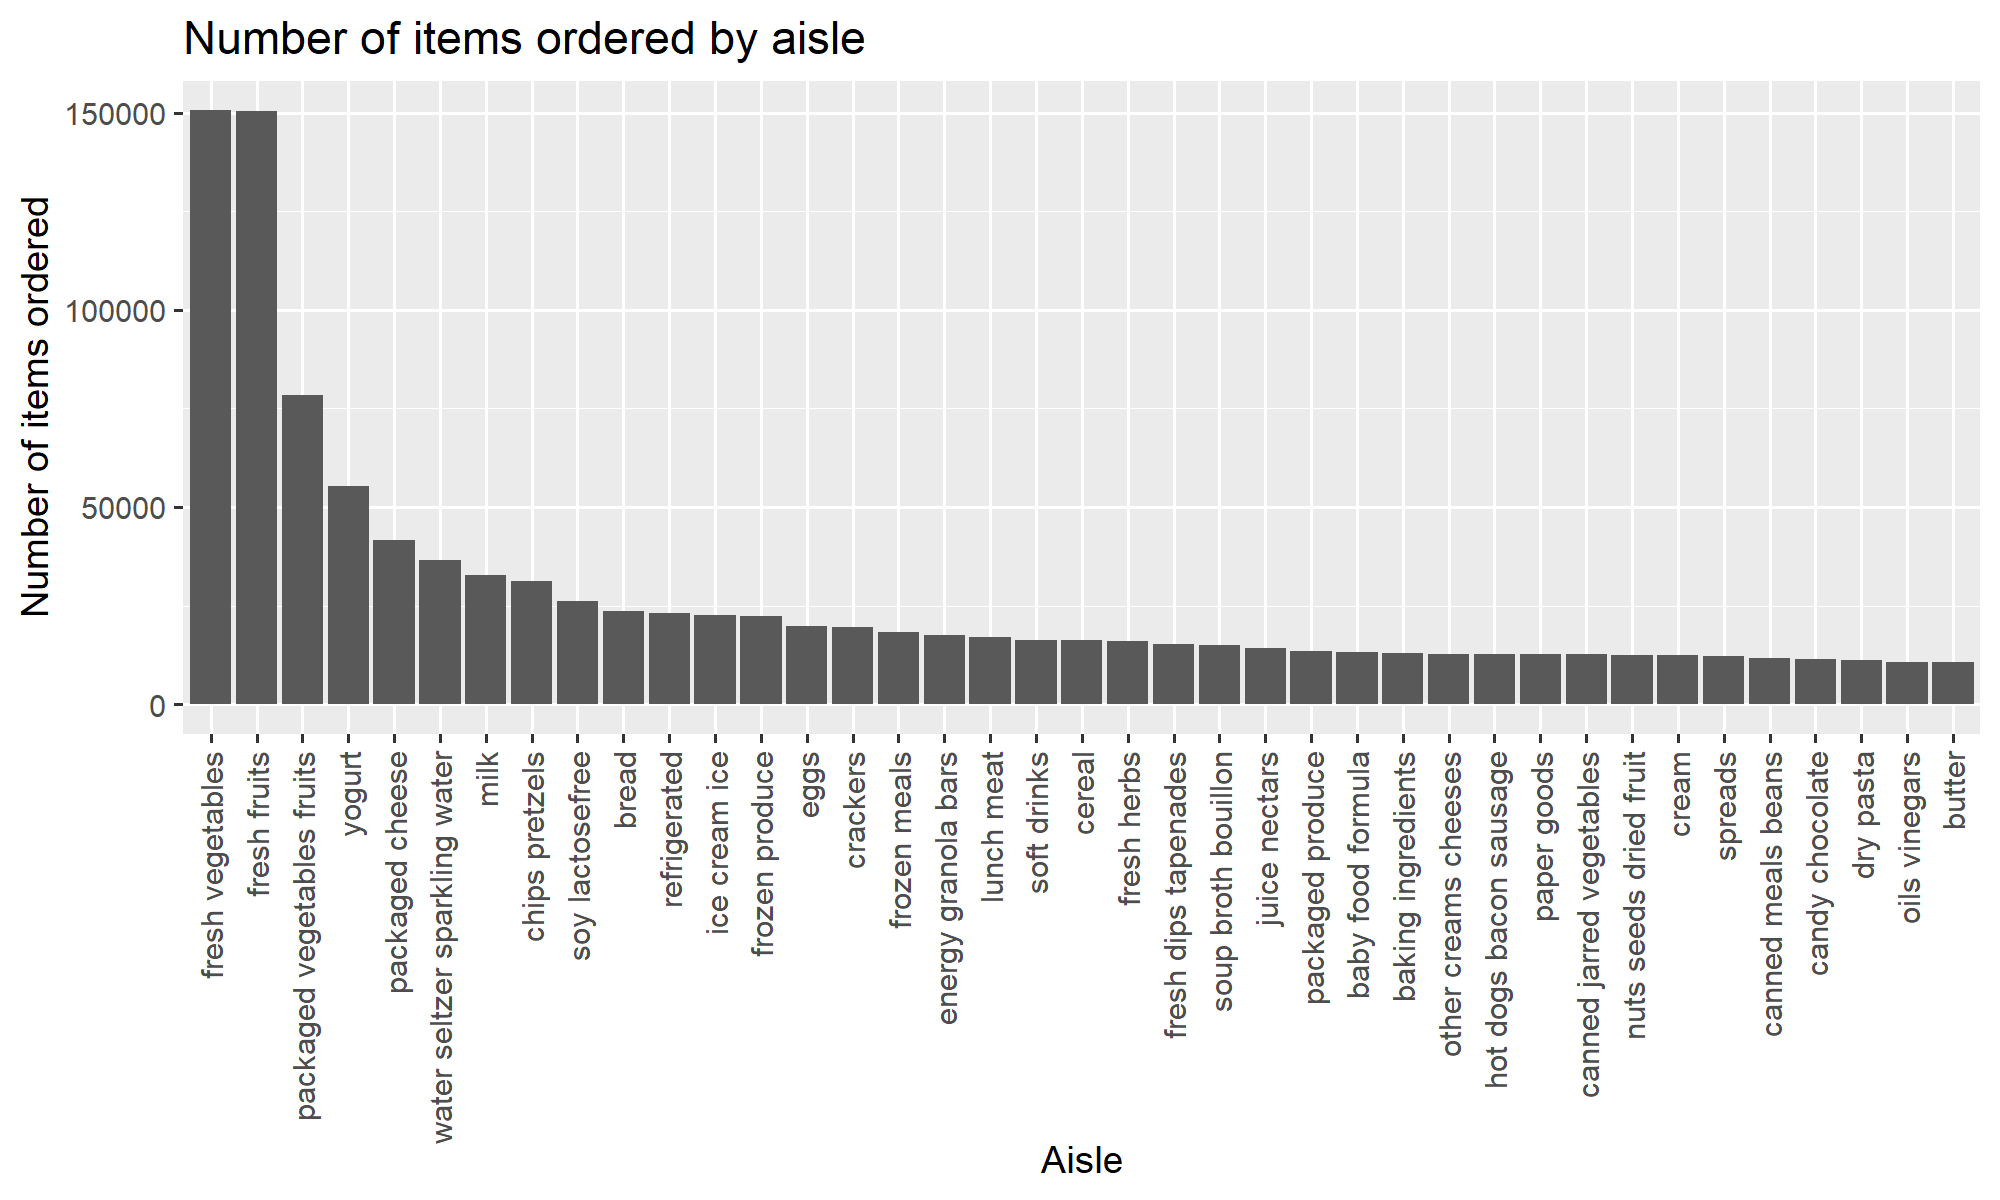
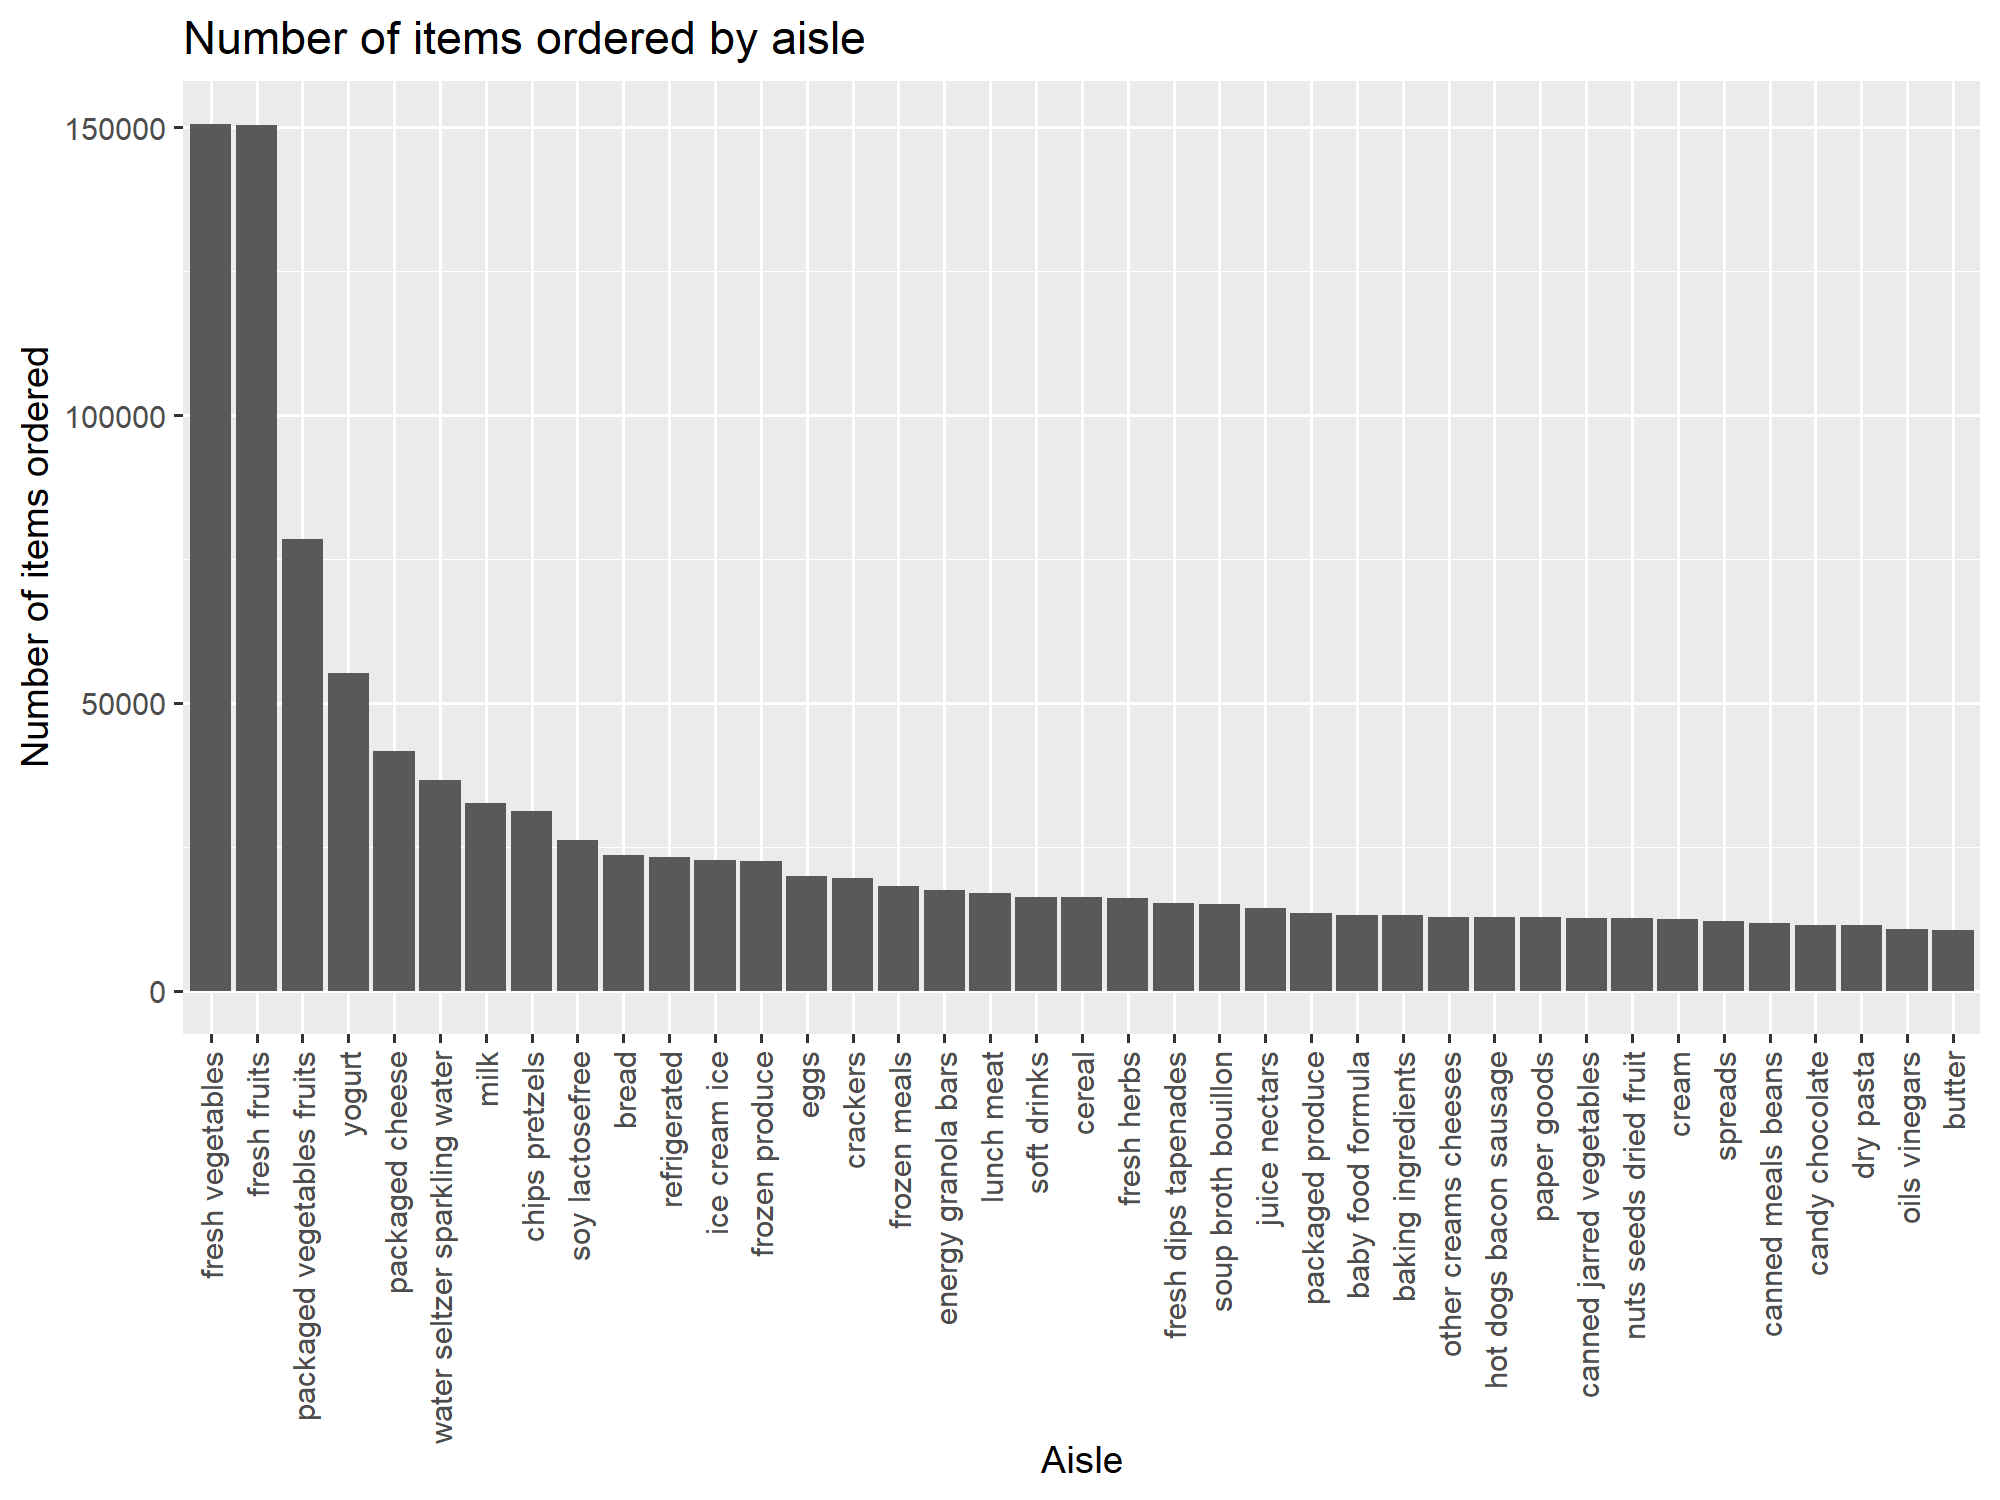
Problem 2 finish

diff --git a/p8105_hw3_sx2402.md b/p8105_hw3_sx2402.md
@@ -102,7 +102,7 @@ aisle_counts |>
   )
 ```
 
-<img src="p8105_hw3_sx2402_files/figure-gfm/Q2-1.png" width="90%" />
+![](p8105_hw3_sx2402_files/figure-gfm/Q2-1.png)<!-- -->
 
 **Make a table showing the three most popular items in each of the
 aisles “baking ingredients”, “dog food care”, and “packaged vegetables
@@ -312,21 +312,20 @@ zori_zip_plot = zori_zip|>
          ) |> 
   select(zori, year, county,zip_code,date) |> 
   drop_na(zori)
-zori_zip_plot |> 
-  ggplot(aes(x = date, y = zori, group = zip_code, color = county, na.rm = TRUE)) +
-  geom_point(alpha = 0.3, size = 0.5)  +
-  geom_line(alpha = 0.3, linewidth = 0.5)+
-  facet_wrap(~ county, scales ="free_y", strip.position = "bottom", ncol = 1, nrow=5)+
-  theme_minimal() +
+zori_zip_plot_p =
+  ggplot(zori_zip_plot,aes(x = date, y = zori, group = zip_code, color = county, na.rm = TRUE)) +
+  geom_point(alpha = 0.4, size = 0.4)  +
+  geom_line(alpha = 0.4, linewidth = 0.4)+
+  facet_wrap(~ county, strip.position = "bottom", ncol = 1, nrow=5)+
   labs(
-    title = "NYC Rental Prices by ZIP Code (2015–2024)",
-    subtitle = "Line for same ZIP code",
+    title = "NYC Rental Prices by ZIP Code",
     x = "Year",
     y = "Average Rental Price")+
-  scale_x_date(date_breaks = "2 years", date_labels = "%Y")
+  scale_x_date(date_breaks = "3 years", date_labels = "%Y")
+zori_zip_plot_p
 ```
 
-<img src="p8105_hw3_sx2402_files/figure-gfm/P2.3-1.png" width="90%" />
+![](p8105_hw3_sx2402_files/figure-gfm/P2.3-1.png)<!-- -->
 
 NYC rental prices have generally increased across all boroughs from 2015
 to 2024, with a sharp drop in 2021 that aligns with the COVID-19 which
@@ -339,3 +338,54 @@ Richmond (Staten Island) appears later in the data, after 2021, with
 comparatively lower rental prices.
 
 **Average Rental Price within each ZIP Plot**
+
+``` r
+zori_2023 = zori_zip |>
+  mutate(
+    date = as.Date(date, format = "%Y_%m_%d"),
+    year = year(date),
+    month = month(date)
+    )|> 
+  filter(year == 2023) |> 
+  group_by(zip_code, county, month) |> 
+  summarize(
+    avg_rent = mean(zori, na.rm = TRUE),
+    .groups = "drop"
+  )
+
+zori_2023_p = ggplot(zori_2023, aes(x = county, y = avg_rent)) +
+  geom_violin(alpha = 0.6, aes(fill = county),color = "blue", na.rm = TRUE)+
+  labs(
+    title = "Monthly Rental Price by Zip",
+    x = "County",
+    y = "Average Monthly Rent"
+  ) +
+    theme(axis.text.x = element_text(angle = 45, hjust = 1))
+zori_2023_p
+```
+
+![](p8105_hw3_sx2402_files/figure-gfm/P2.4-1.png)<!-- -->
+
+``` r
+combined_plot =
+  (zori_2023_p | zori_zip_plot_p)
+combined_plot
+```
+
+![](p8105_hw3_sx2402_files/figure-gfm/P2.4-2.png)<!-- -->
+
+``` r
+ggsave(filename = "./result/combined.png",plot = combined_plot, width = 15, height = 8, dpi = 300)
+```
+
+Manhattan (New York County) shows the highest average rental prices with
+wide distribution with highest variation to 8000. Indicating both very
+expensive priced max rental price and high minimum rental price among
+all ZIP codes within the county. Brooklyn (Kings County) and Queens
+follows, also with a narrower distribution generally lower than
+Manhattan but higher than others. Richmond and the Bronx display lower
+median rents and Richmond (Staten Island) has the narrowest
+distribution, reflecting relatively limited variation due to little
+sample.
+
+## Problem 3
